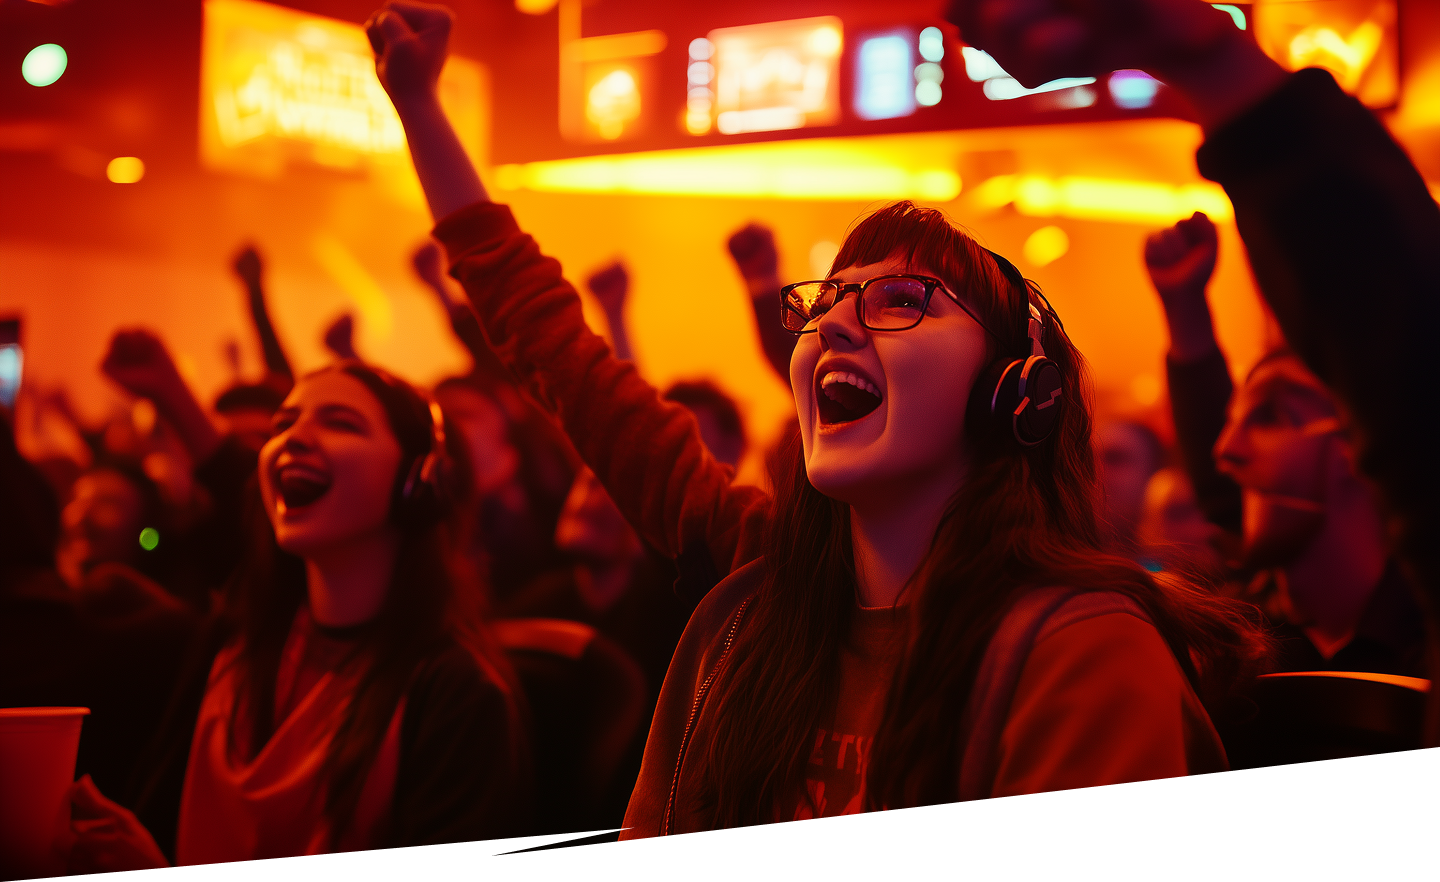
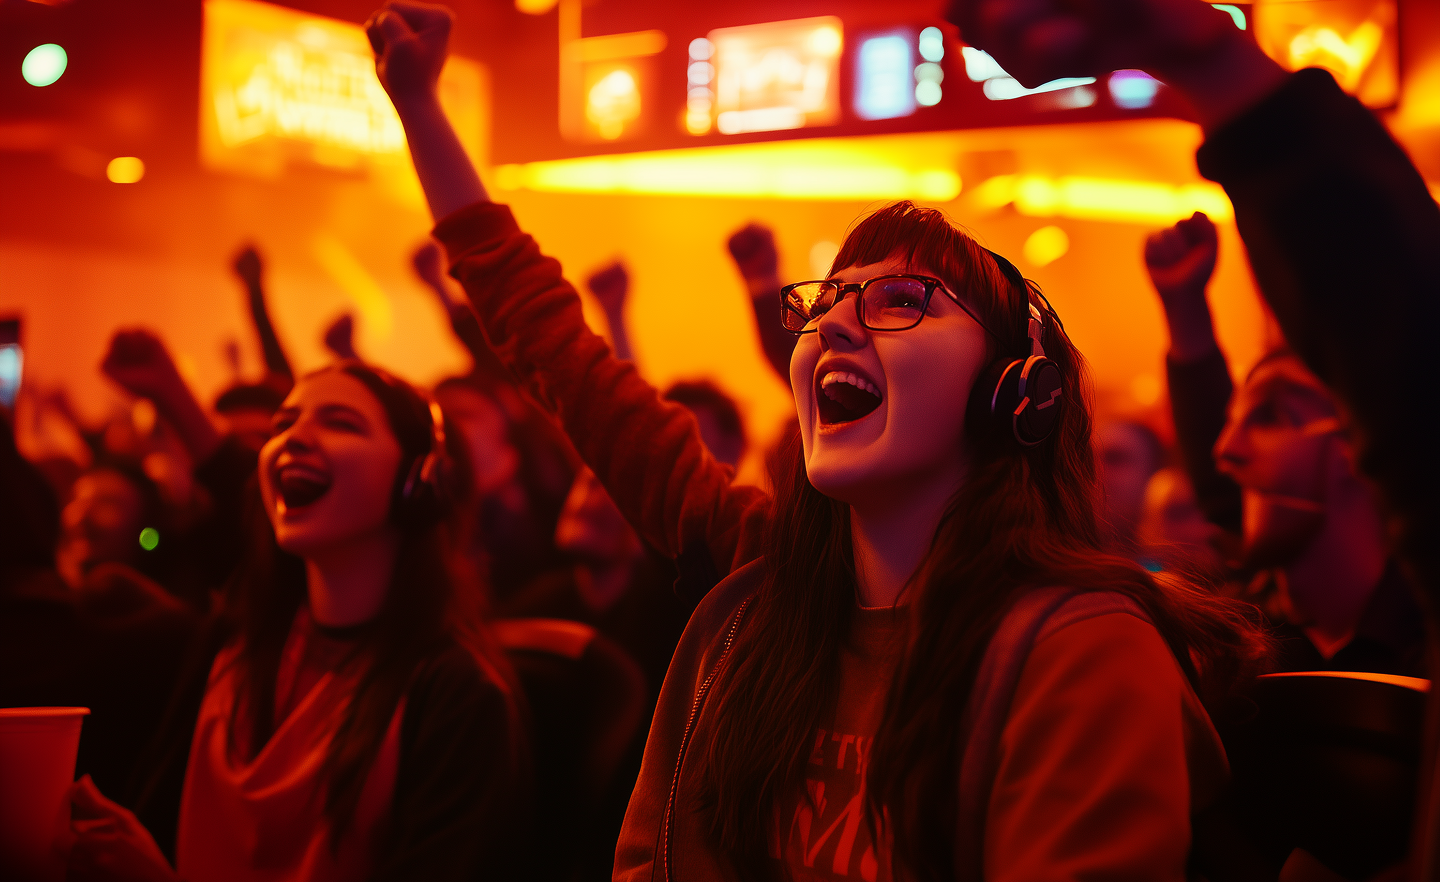
fix: peps separator

Changed region(s): [[0.0, 0.8265, 1.0, 1.0]]

diff --git a/src/app/pages/member-details/member-details.component.ts b/src/app/pages/member-details/member-details.component.ts
@@ -1,4 +1,4 @@
-import {Component, OnChanges, OnInit, SimpleChanges} from '@angular/core';
+import {Component, OnInit} from '@angular/core';
 import {MemberService} from '../../services/member.service';
 import {ActivatedRoute, Router} from '@angular/router';
 import {Member} from '../../models/member/member';
@@ -25,7 +25,7 @@ import {TranslatePipe} from '@ngx-translate/core';
 	templateUrl: './member-details.component.html',
 	styleUrls: ['./member-details.component.css']
 })
-export class MemberDetailsComponent implements OnInit, OnChanges {
+export class MemberDetailsComponent implements OnInit {
 
 	constructor(
 		private readonly memberService: MemberService,
@@ -47,10 +47,6 @@ export class MemberDetailsComponent implements OnInit, OnChanges {
 			this.loadMember(memberId);
 		})
     }
-
-	ngOnChanges(): void {
-		console.log('Changes detected:');
-	}
 
 	loadMember(memberId: string): void {
 		this.memberService.getMemberById(memberId).subscribe({

diff --git a/src/app/core/components/separator/separator.component.html b/src/app/core/components/separator/separator.component.html
@@ -1,7 +1,7 @@
-<div class="relative w-screen h-fit flex items-center justify-center z-[-999]">
+<div class="relative w-screen max-w-screen h-fit flex items-center justify-center z-[-999]">
 	<img
 		src="/assets/images/separator_team_peps.png"
 		alt="Séparateur Team Peps"
-		class="object-cover object-center absolute h-[12vh] xs:h-[18vh] sm:h-[30vh] md:h-[40vh] lg:h-[45vh] xl:h-[50vh] 2xl:h-[60vh] w-auto max-w-none"
+		class="object-cover object-center absolute h-[12vh] xs:h-[18vh] sm:h-[30vh] md:h-[40vh] lg:h-[45vh] xl:h-[50vh] 2xl:h-[60vh] "
 	/>
 </div>
